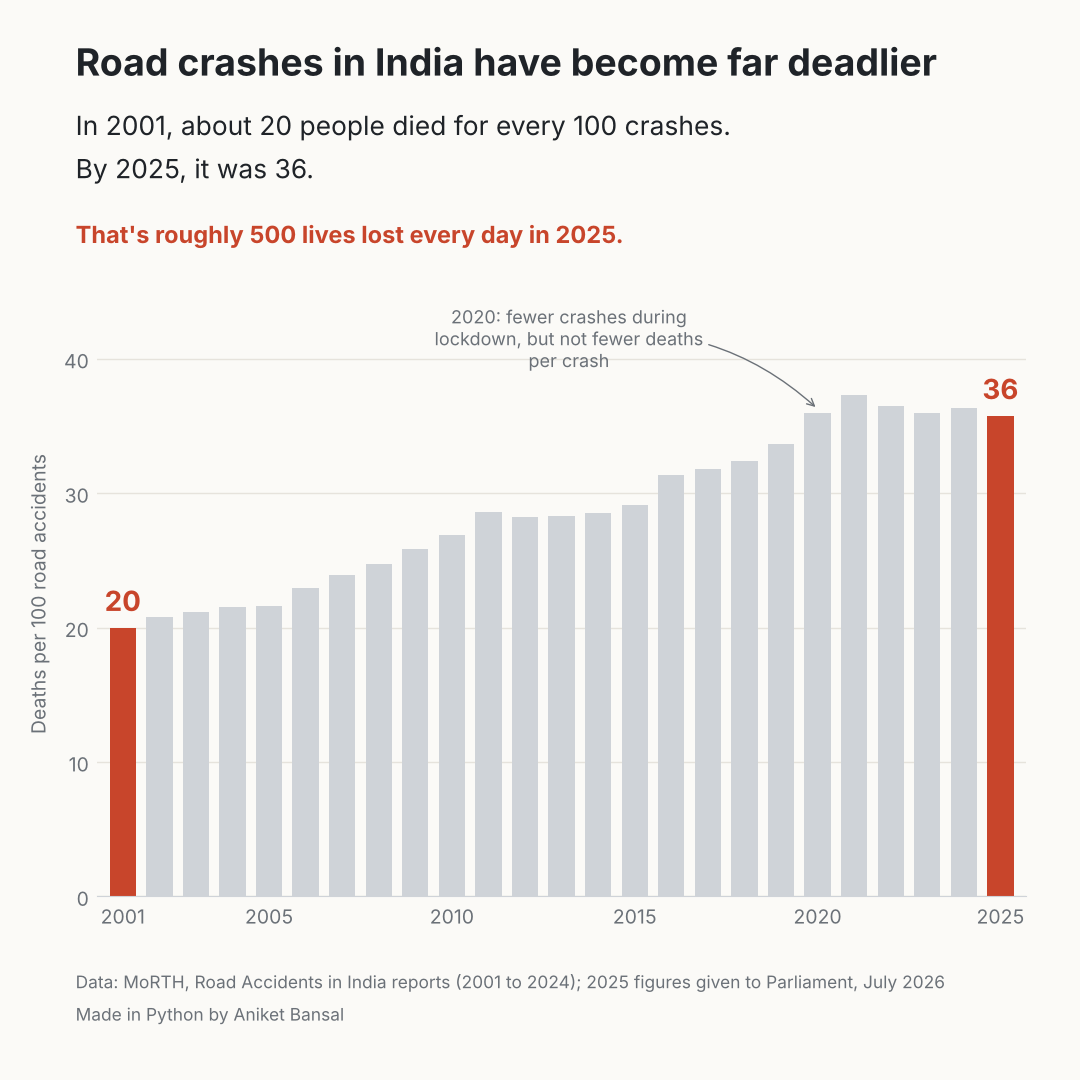
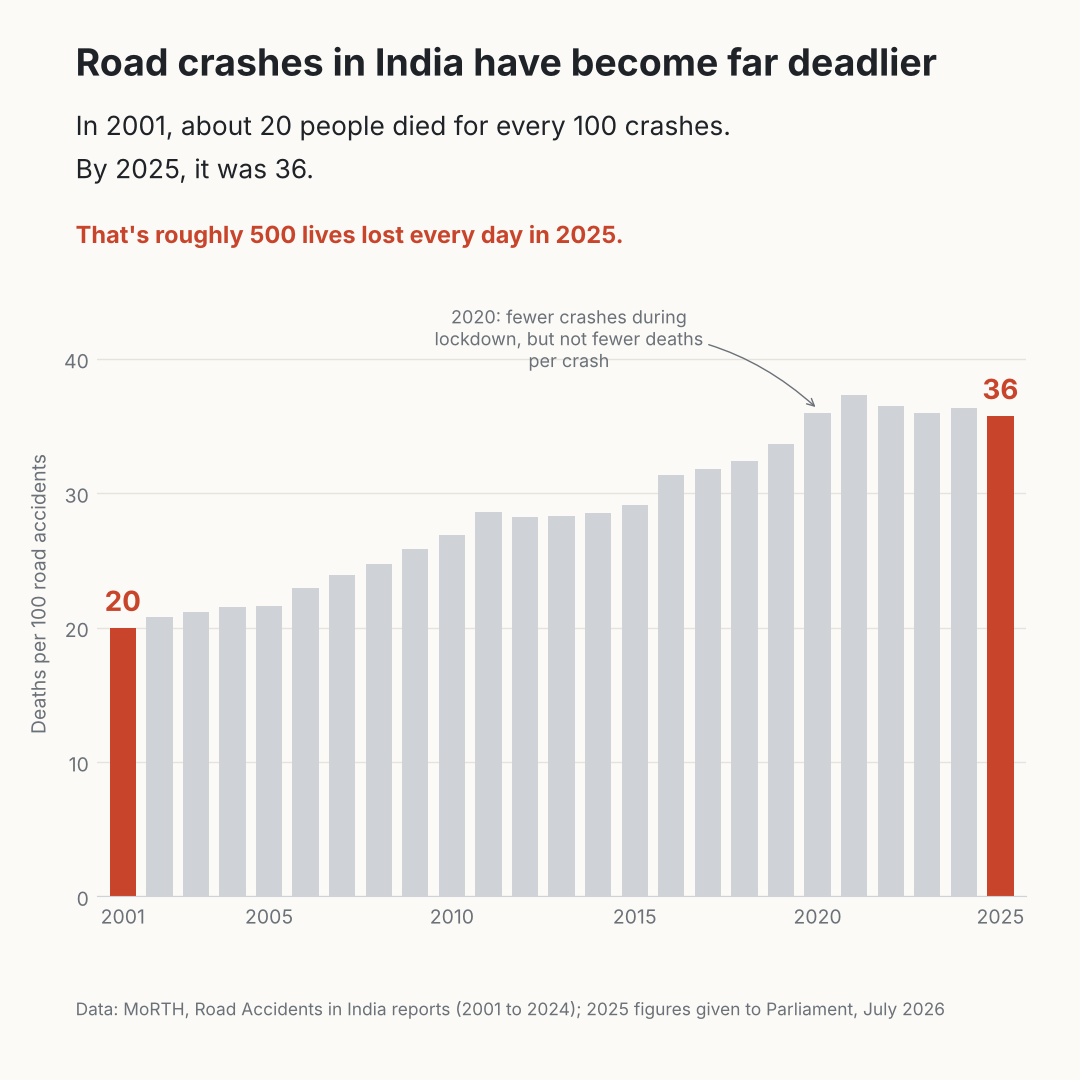
Remove name credit from chart footer

Changed region(s): [[0.0611, 0.8861, 0.8861, 0.9472]]

diff --git a/national-trends/severity_chart.py b/national-trends/severity_chart.py
@@ -51,9 +51,8 @@ fig.text(0.07, 0.875, f"In {int(first['year'])}, about {first['severity']:.0f} p
 fig.text(0.07, 0.835, f"By {int(last['year'])}, it was {last['severity']:.0f}.", fontsize=19, color=INK)
 fig.text(0.07, 0.775, f"That's roughly {round(deaths_per_day, -1):.0f} lives lost every day in {int(last['year'])}.",
          fontsize=17, color=RED, fontweight="bold")
-fig.text(0.07, 0.085, "Data: MoRTH, Road Accidents in India reports (2001 to 2024); 2025 figures given to Parliament, July 2026",
+fig.text(0.07, 0.06, "Data: MoRTH, Road Accidents in India reports (2001 to 2024); 2025 figures given to Parliament, July 2026",
          fontsize=12.5, color=MUTED)
-fig.text(0.07, 0.055, "Made in Python by Aniket Bansal", fontsize=12.5, color=MUTED)
 
 fig.savefig(HERE / "severity_trend.png", dpi=100, facecolor=BG)
 print(df[["year", "accidents", "deaths", "severity"]].round(1).to_string(index=False))
